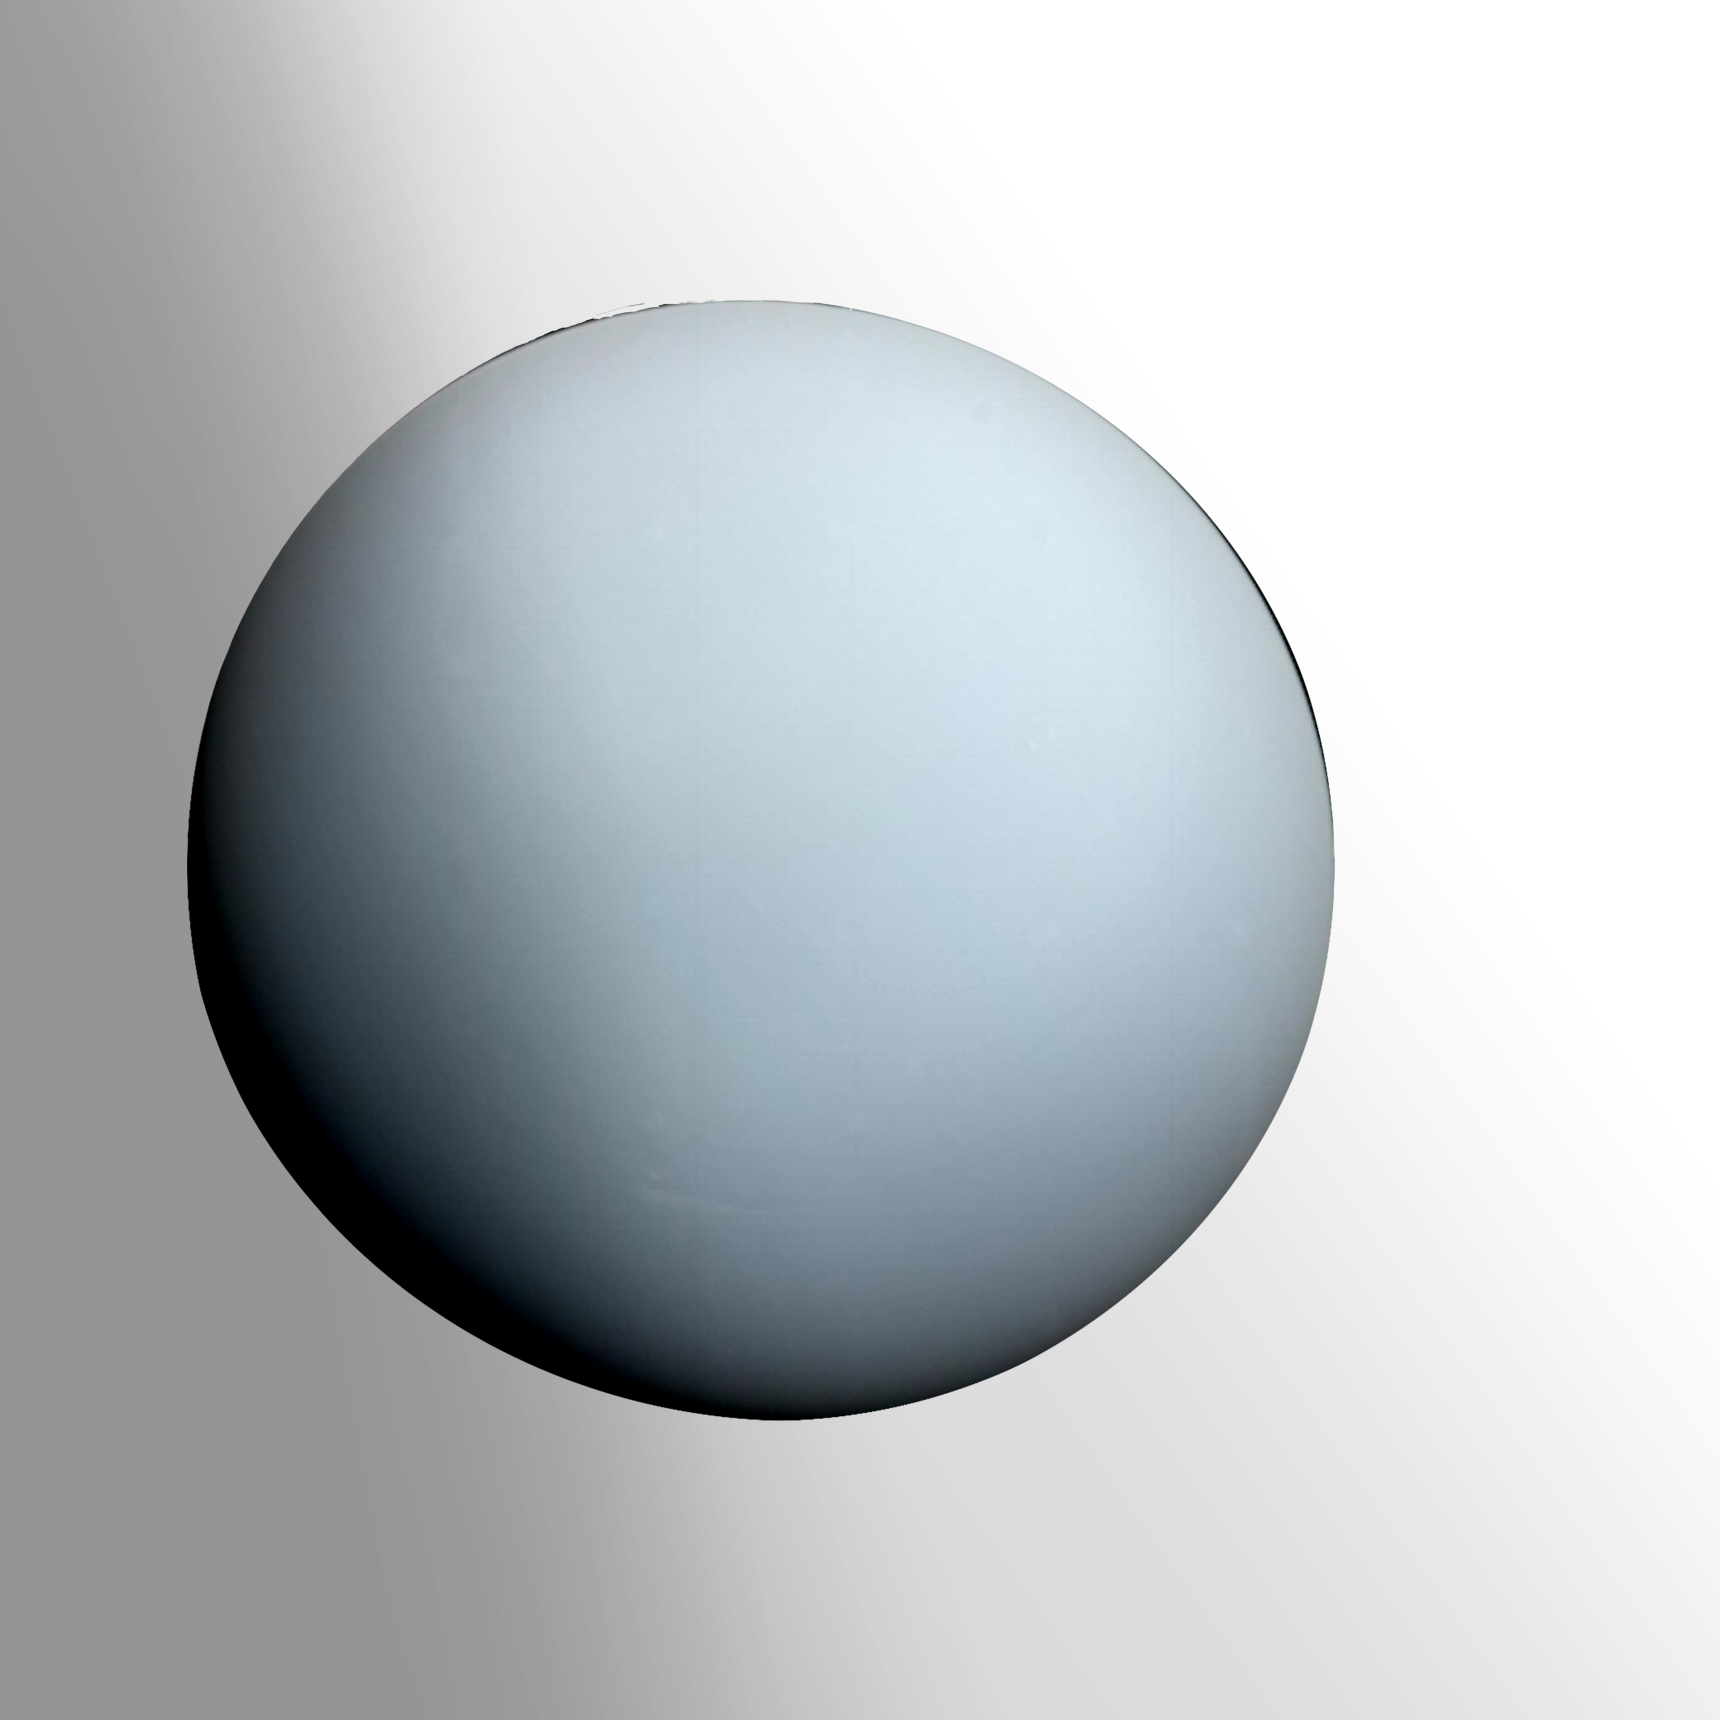
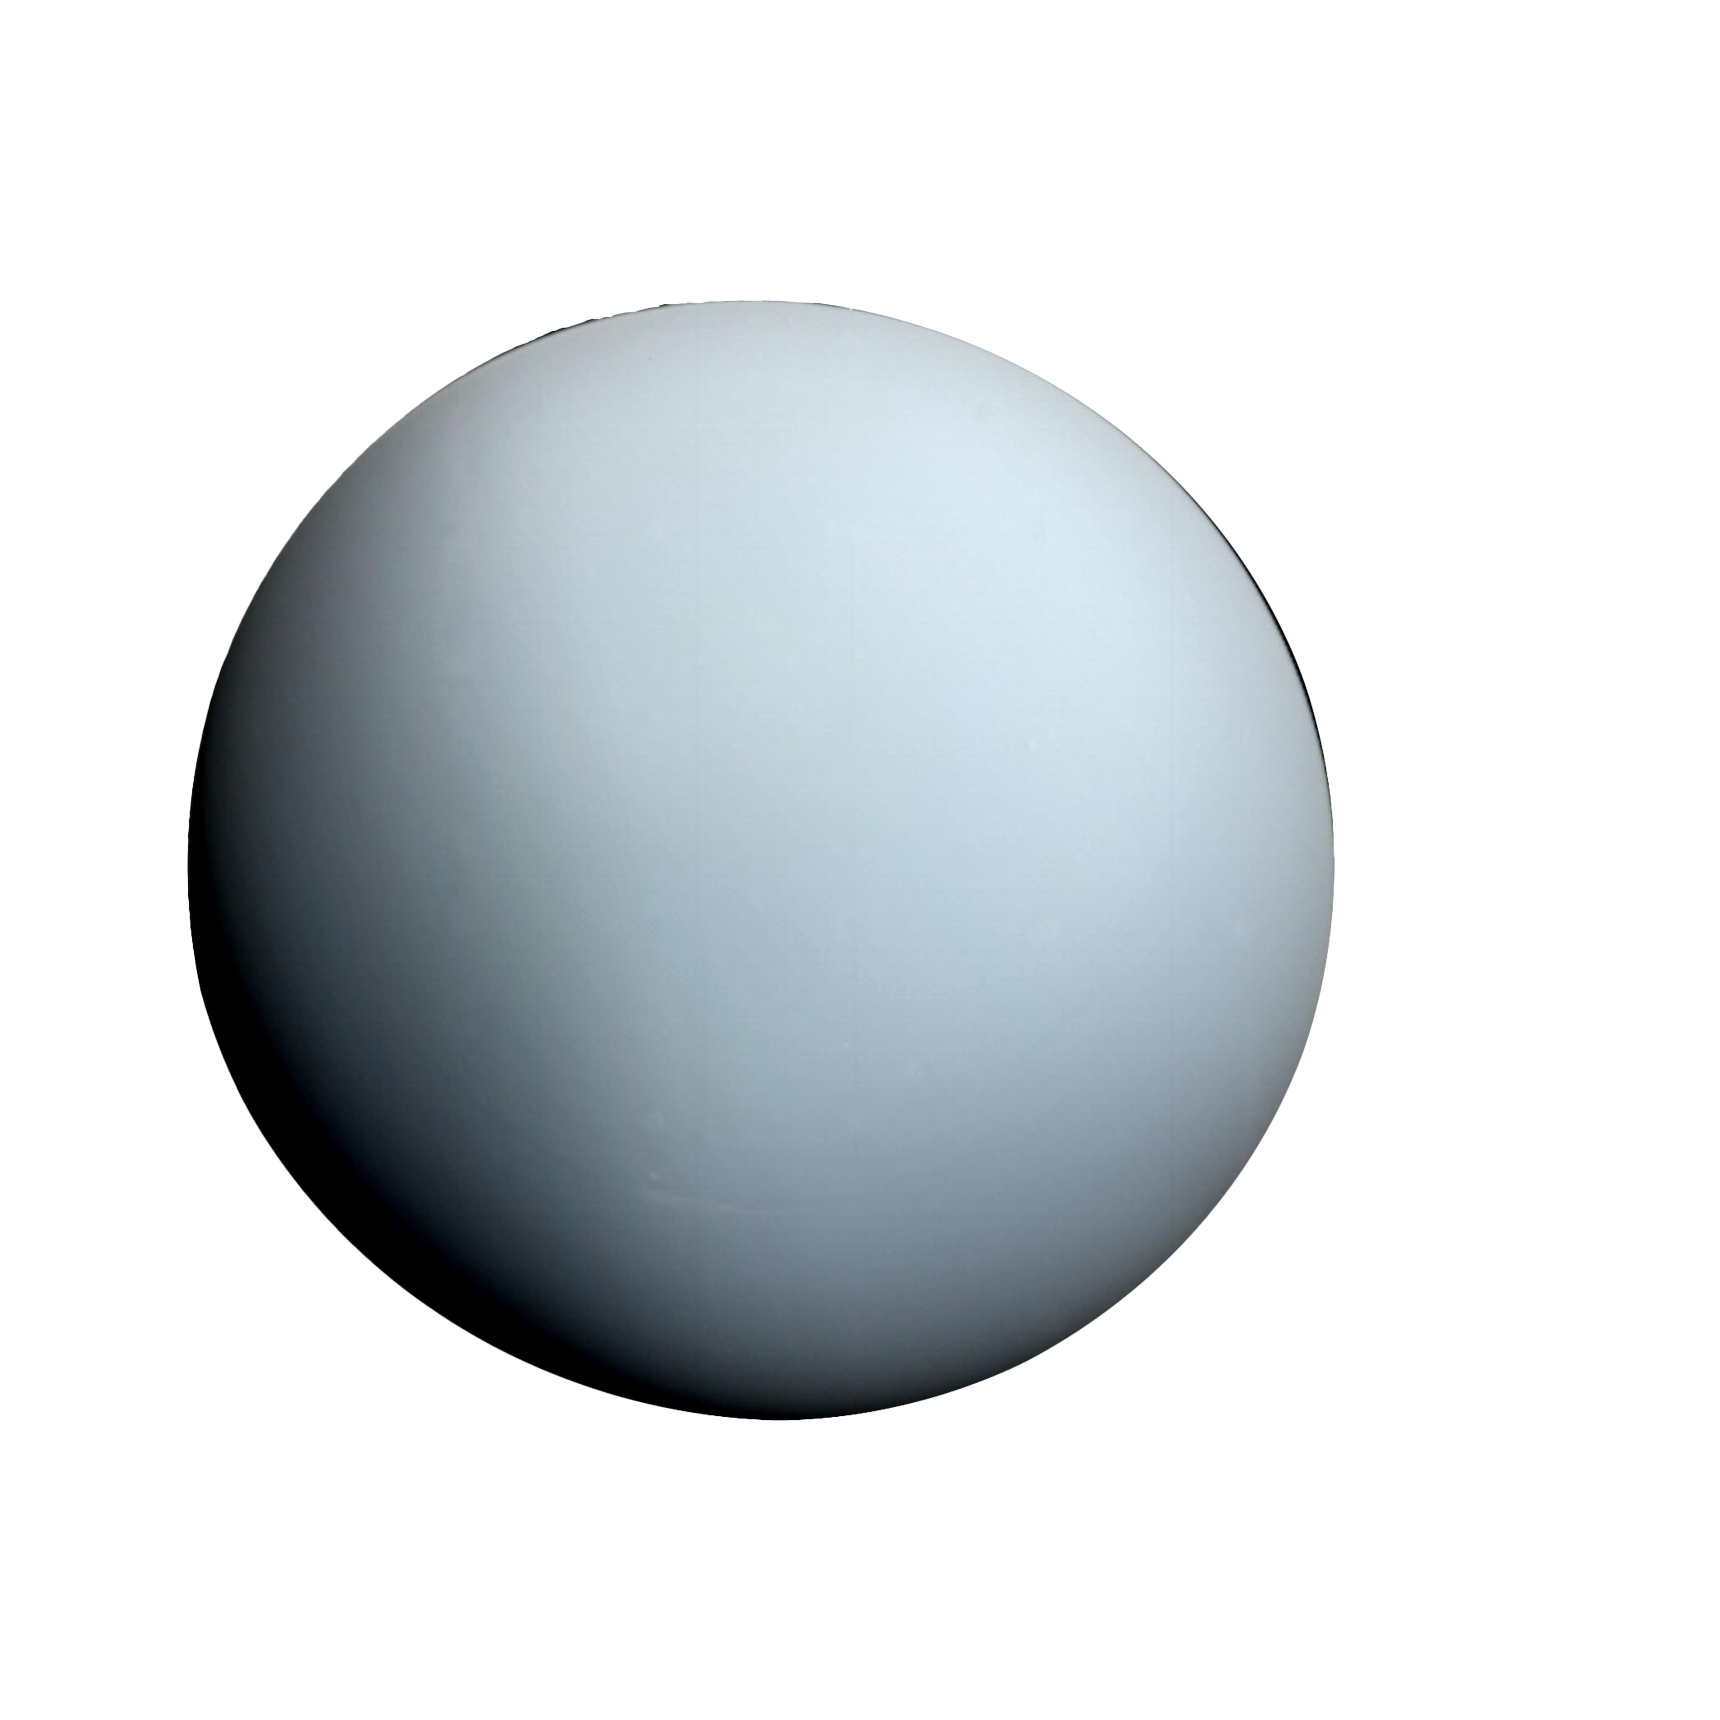
Finalized the individual page layout

diff --git a/website/space_entities.html b/website/space_entities.html
@@ -7,13 +7,21 @@
     <title>Document</title>
 </head>
 <body>
-    <h2>This is <span id="planet-name"></span> page</h2>
+    <div class="intro-portion">
+        <h2 id="planet-name"></h2>
+        <img src="" alt="" class="planet-img">
+    </div>
+    <hr class="divider">
     <script>
         let planetName = window.location.href.split("x:")[1]
-        document.getElementById("planet-name").innerHTML = planetName
+        let planet_img = document.querySelector('.planet-img')
+        document.getElementById("planet-name").innerHTML = planetName.toUpperCase()
+        planet_img.src = `/public/images/${planetName}.png`
+        if(planetName == "saturn")
+            planet_img.style.width = "550px"
+        if(planetName == "sun")
+            planet_img.style.width = "550px"
         document.querySelector('title').innerHTML = `Akashalay - ${planetName.toUpperCase()}`
-        let body = document.querySelector('body')
-        body.style.setProperty('--bg-img', `url('/public/images/${planetName}-bg.jpg')`)
     </script>
     <script src="/public/script/fetch.js"></script>
 </body>

diff --git a/website/public/css/entity.css b/website/public/css/entity.css
@@ -1,19 +1,28 @@
+@import url('https://fonts.googleapis.com/css2?family=Poppins:ital,wght@0,300;0,400;1,300;1,400&display=swap');
 * {
     padding: 0;
     margin: 0;
+    color: white;
+    font-family: 'Poppins', sans-serif;
 }
-:root {
-    --bg-img: url('/public/images/earth-bg.jpg');
-}
-body::before {
-    content: '';
-    background-image: var(--bg-img);
-    background-repeat: no-repeat;
-    background-position: center center;
-    position: absolute;
+body {
     width: 100vw;
     height: 100vh;
-    z-index: -1;
-    opacity: 0.8;
-    filter: blur(4px);
+    background-image: url("/public/images/bg.jpg");
+}
+
+.intro-portion {
+    display: flex;
+    justify-content: space-around;
+    align-items: center;
+    width: 100vw;
+    height: 50vh;
+}
+.planet-img {
+    width: 300px;
+    height: 300px;
+}
+.divider {
+    width: 85vw;
+    margin: auto;
 }

diff --git a/website/public/css/home.css b/website/public/css/home.css
@@ -1,8 +1,9 @@
+@import url('https://fonts.googleapis.com/css2?family=Poppins:ital,wght@0,300;0,400;1,300;1,400&display=swap');
 * {
     margin: 0;
     padding: 0;
     color: black;
-    font-style: sans-serif;
+    font-family: 'Poppins', sans-serif;
 }
 
 body {
@@ -22,7 +23,6 @@ header {
 .web-name {
     color: white;
     cursor: pointer;
-    font-family: 'Cormorant Garamond', serif;
 }
 .navbar {
     display: flex;
@@ -52,7 +52,7 @@ header {
     transition: all 0.3s linear;
 }
 .option-list {
-    width: 10vw;
+    width: 13vw;
     position: absolute;
     display: none;
     background-color: white;
@@ -100,7 +100,6 @@ header {
     color: white;
     display: none;
     text-decoration: underline;
-    font-family: 'Cormorant Garamond', serif;
 }
 .planet-name-show {
     display: block;

diff --git a/website/index.html b/website/index.html
@@ -43,7 +43,7 @@
     <section class="solar-system">
         <a href="/star/x:sun">
             <div id="sun-container" class="planet-container">
-                <img src="/public/images/sun2.png" alt="Sun" id="sun" class="planet">
+                <img src="/public/images/sun.png" alt="Sun" id="sun" class="planet">
                 <!-- <h3 class="planet-name" id="sun-name">Sun</h3> -->
             </div>
         </a>
